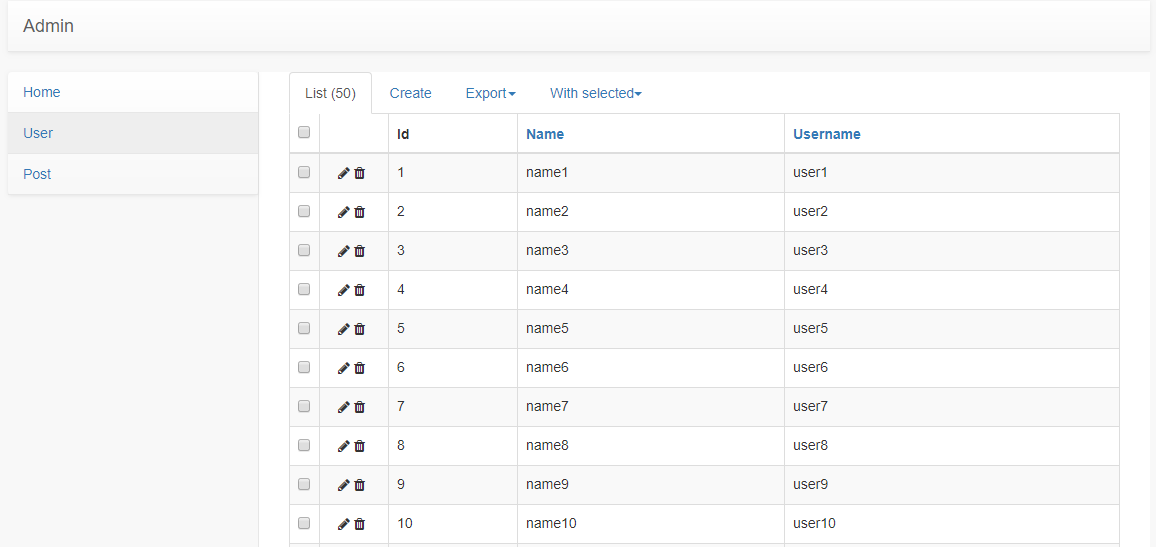
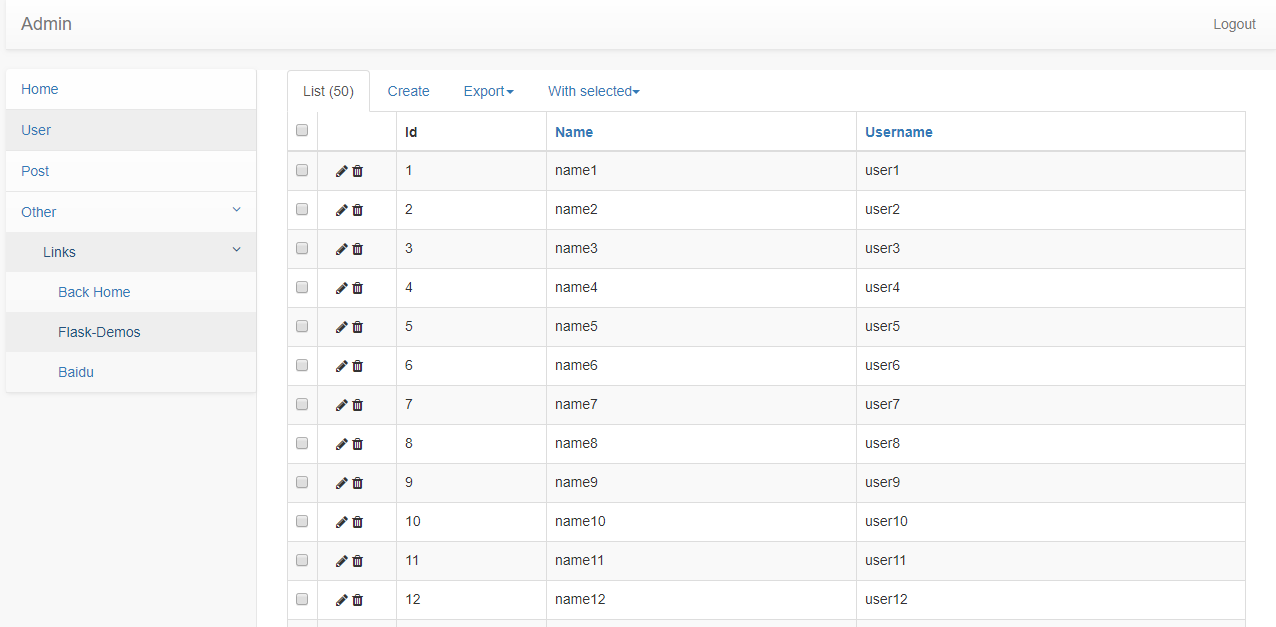
Updated AD07-flask-admin-custom-navbar-demo

diff --git a/AD07-flask-admin-custom-navbar-demo/templates/admin/menu.html b/AD07-flask-admin-custom-navbar-demo/templates/admin/menu.html
@@ -1,0 +1,101 @@
+{# 菜单图标 #}
+{% macro menu_icon(item) -%}
+{% set icon_type = item.get_icon_type() %}
+{%- if icon_type %}
+  {% set icon_value = item.get_icon_value() %}
+  {% if icon_type == 'glyph' %}
+    <i class="glyphicon {{ icon_value }}"></i>
+  {% elif icon_type == 'fa' %}
+    <i class="fa {{ icon_value }}"></i>
+  {% elif icon_type == 'image' %}
+    <img src="{{ url_for('static', filename=icon_value) }}" alt="menu image">
+  {% elif icon_type == 'image-url' %}
+    <img src="{{ icon_value }}" alt="menu image">
+  {% endif %}
+{% endif %}
+{%- endmacro %}
+
+{# 左对齐的menu布局 #}
+{% macro menu(menu_root=None) %}
+  {# 获取所有 menu #}
+  {% if menu_root is none %}{% set menu_root = admin_view.admin.menu() %}{% endif %}
+  {%- for item in menu_root %}
+    {# category #}
+    {%- if item.is_category() -%}
+      {# 获取所有 category 的 children #}
+      {% set children = item.get_children() %}
+      {%- if children %}
+        {% set class_name = item.get_class_name() or '' %}
+
+        {%- if item.is_active(admin_view) %}
+        <li class="active dropdown{% if class_name %} {{class_name}}{% endif %}">
+        {% else -%}
+        <li class="dropdown{% if class_name %} {{class_name}}{% endif %}">
+        {%- endif %}
+
+            <a class="dropdown-toggle" data-toggle="dropdown" href="javascript:void(0)">
+                {% if item.class_name %}<span class="{{ item.class_name }}"></span> {% endif %}
+                {{ menu_icon(item) }}{{ item.name }}
+                <span class="fa arrow"></span>
+            </a>
+
+            {%- if 'dropdown-submenu' in class_name -%}
+                {% set nav_level = 'nav-third-level' %}
+            {%- else -%}
+                {% set nav_level = 'nav-second-level' %}
+            {%- endif -%}
+
+            <ul class="nav {{ nav_level }}">
+                {# 子菜单 #}
+                {%- for child in children -%}
+                    {# category #}
+                    {%- if child.is_category() -%}
+                    {{ menu(menu_root=[child]) }}
+                    {% else %}
+                    {% set class_name = child.get_class_name() %}
+
+                    {%- if child.is_active(admin_view) %}
+                    <li class="active{% if class_name %} {{class_name}}{% endif %}">
+                    {% else %}
+                    <li{% if class_name %} class="{{class_name}}"{% endif %}>
+                    {%- endif %}
+                        <a href="{{ child.get_url() }}"{% if child.target %}
+                            target="{{ child.target }}"{% endif %}>
+                            {{ menu_icon(child) }}{{ child.name }}
+                        </a>
+                    </li>
+                    {%- endif %}
+                {%- endfor %}
+            </ul>
+        </li>
+      {% endif %}
+    {%- else %}
+      {%- if item.is_accessible() and item.is_visible() -%}
+        {% set class_name = item.get_class_name() %}
+
+        {%- if item.is_active(admin_view) %}
+            <li class="active{% if class_name %} {{class_name}}{% endif %}">
+        {%- else %}
+            <li{% if class_name %} class="{{class_name}}"{% endif %}>
+        {%- endif %}
+
+          <a href="{{ item.get_url() }}"{% if item.target %} target="{{ item.target }}"{% endif %}>{{ menu_icon(item) }}{{ item.name }}</a>
+        </li>
+      {%- endif -%}
+    {% endif -%}
+  {% endfor %}
+{% endmacro %}
+
+{# 右对齐的links布局 #}
+{% macro menu_links(links=None) %}
+  {% if links is none %}{% set links = admin_view.admin.menu_links() %}{% endif %}
+  {% for item in links %}
+    {% set class_name = item.get_class_name() %}
+    {% if item.is_accessible() and item.is_visible() %}
+      <li{% if class_name %} class="{{ class_name }}"{% endif %}>
+        <a href="{{ item.get_url() }}">{{ menu_icon(item) }}{{ item.name }}</a>
+      </li>
+    {% endif %}
+  {% endfor %}
+{% endmacro %}
+

diff --git a/AD07-flask-admin-custom-navbar-demo/templates/admin/master.html b/AD07-flask-admin-custom-navbar-demo/templates/admin/master.html
@@ -1,4 +1,5 @@
 {% import 'admin/layout.html' as layout with context -%}
+{% import 'admin/menu.html' as menu_layout with context -%}
 {% extends 'admin/base.html' %}
 
 {%- block head -%}
@@ -41,25 +42,11 @@
     </div>
 
     <!-- navbar content -->
-    <div class="collapse navbar-collapse" id="admin-navbar-collapse" style="padding-top: 20px">
+    <div class="collapse navbar-collapse" id="admin-navbar-collapse">
         
-        {# main_menu: 默认左对齐 #}
-        {% block main_menu %}
-        {# <ul class="nav navbar-nav">
-        {{ layout.menu() }}
-        </ul> #}
-        <div class="navbar-default sidebar" role="navigation">
-            <div class="sidebar-nav navbar-collapse">
-                <ul class="nav" id="side-menu">
-                {{ layout.menu() }}
-                </ul>
-            </div>
-        </div>
-        {% endblock %}
-
         {# menu_links: 右对齐 #}
         {% block menu_links %}
-        <ul class="nav navbar-nav navbar-right">
+        <ul class="nav navbar-nav navbar-right" style="margin-right: 5px">
         {{ layout.menu_links() }}
         </ul>
         {% endblock %}
@@ -68,6 +55,16 @@
         {% block access_control %}
         {% endblock %}
     </div>
+
+        {% block main_menu %}
+        <div class="navbar-default sidebar" role="navigation" style="margin-top: 20px">
+            <div class="sidebar-nav navbar-collapse">
+                <ul class="nav" id="side-menu">
+                {{ menu_layout.menu() }}
+                </ul>
+            </div>
+        </div>
+        {% endblock %}
 
     </nav>
 

diff --git a/AD07-flask-admin-custom-navbar-demo/app.py b/AD07-flask-admin-custom-navbar-demo/app.py
@@ -1,5 +1,6 @@
-from flask import Flask, flash
+from flask import Flask
 from flask_admin import Admin
+from flask_admin.base import MenuLink
 from flask_sqlalchemy import SQLAlchemy
 from flask_admin.contrib.sqla import ModelView
 
@@ -74,8 +75,43 @@ class PostModelView(ModelView):
     }
 
 
+def admin_add_category(admin, target_category):
+    """
+    :param admin: flask-admin 实例
+    :param target_category: str, 分类名称
+
+    Usage::
+
+        category = 'category'
+        admin_add_category(admin, category)
+        admin.add_sub_category('user', category)
+        admin.add_view(ShareUserModelView(User, db.session, name='user', category='user'))
+
+    """
+    from flask_admin.menu import MenuCategory
+
+    cat_text = target_category.decode('utf-8')\
+        if isinstance(target_category, bytes) else target_category
+    category = admin._menu_categories.get(cat_text)
+    if category is None:
+        category = MenuCategory(target_category)
+        category.class_name = admin.category_icon_classes.get(cat_text)
+        admin._menu_categories[cat_text] = category
+        admin._menu.append(category)
+        return True
+
+
 admin.add_view(UserModelView(User, db.session))
 admin.add_view(PostModelView(Post, db.session))
+
+admin_add_category(admin, 'Other')
+admin.add_sub_category(name='Links', parent_name='Other')
+admin.add_link(MenuLink(name='Back Home', url='/', category='Links'))
+admin.add_link(MenuLink(name='Flask-Demos', url='https://github.com/AngelLiang/Flask-Demos',category='Links'))
+admin.add_link(MenuLink(name='Baidu', url='http://www.baidu.com/', category='Links'))
+
+# 添加到banav的右上角
+admin.add_links(MenuLink(name='Logout', url='/'))
 
 
 def initdata(user_count=50, post_count=100):
